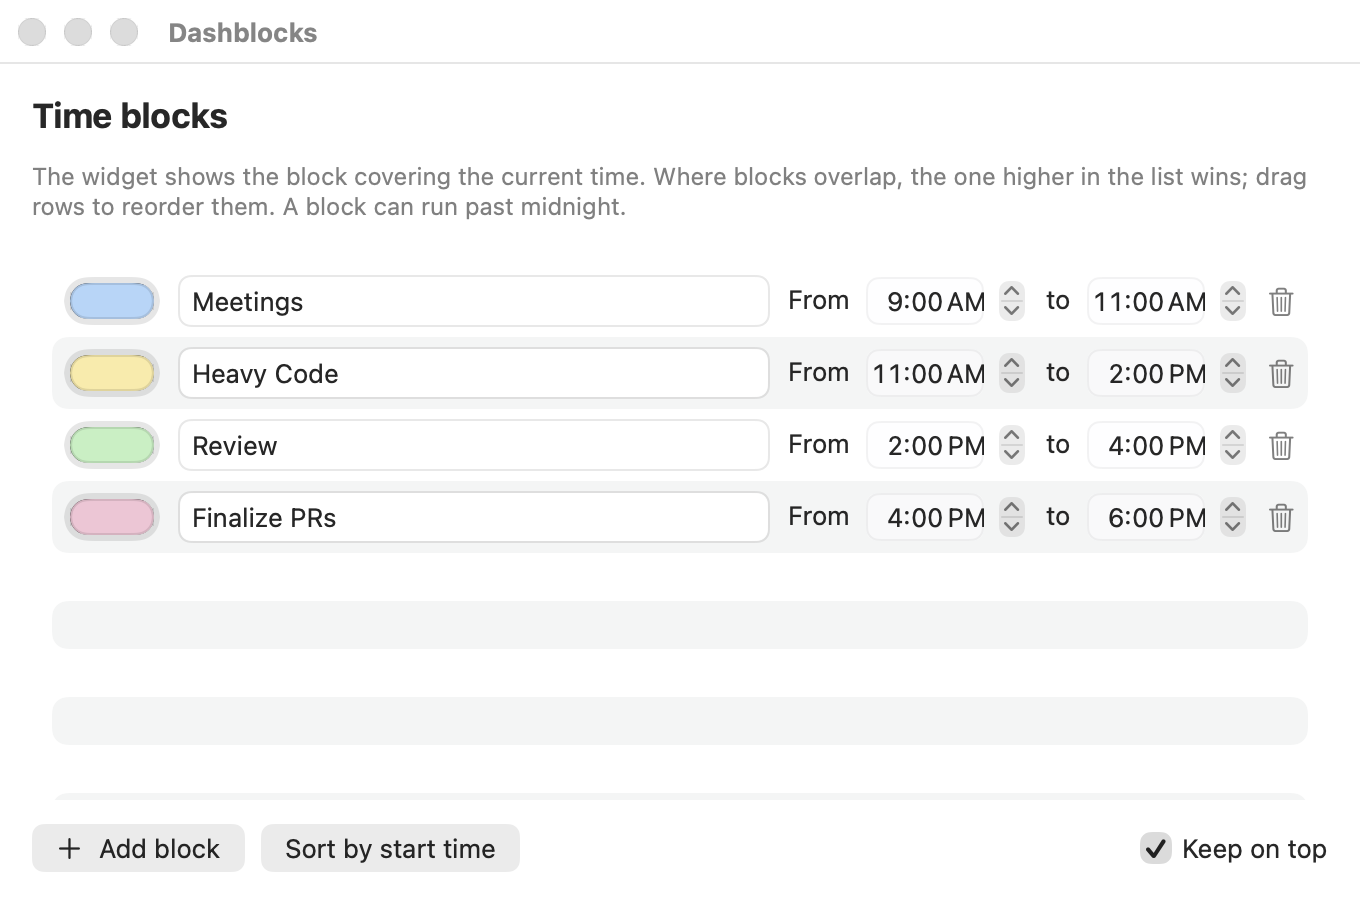
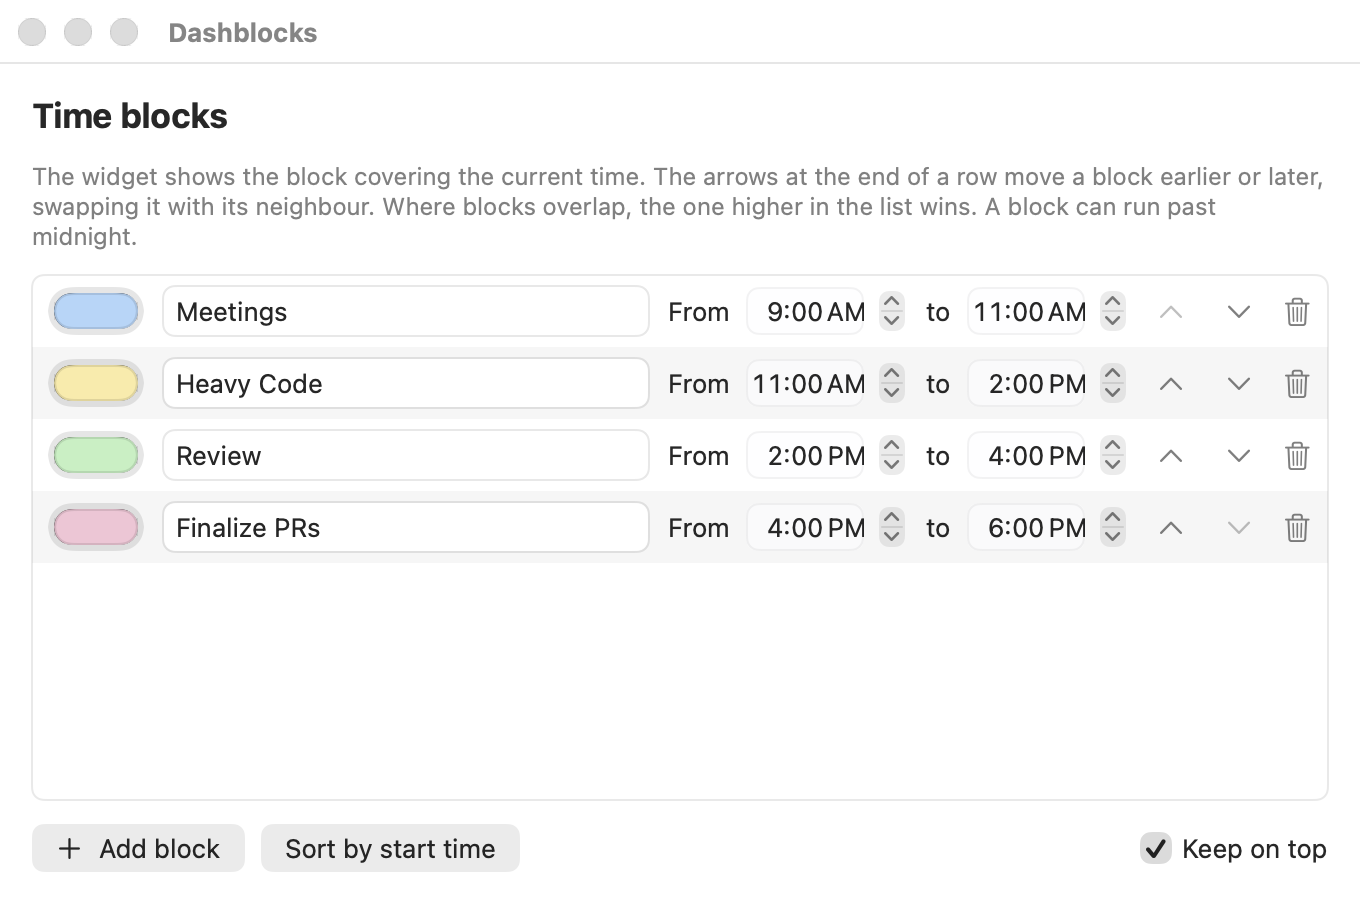
fix: Settings fixes

diff --git a/Dashblocks.swift b/Dashblocks.swift
@@ -74,7 +74,7 @@ final class Store: ObservableObject {
 
     /// The line under the block's name: when it ends, or, between blocks, what is next.
     func caption(at date: Date) -> String {
-        if let block = block(at: date) { return "until \(clockTime(block.end))" }
+        if let block = block(at: date) { return "\(clockTime(block.start)) – \(clockTime(block.end))" }
         if let next = next(after: date) { return "next: \(next.block.name) at \(clockTime(next.block.start))" }
         return "nothing planned"
     }
@@ -266,19 +266,26 @@ struct ConfigView: View {
     var body: some View {
         VStack(alignment: .leading, spacing: 12) {
             Text("Time blocks").font(.title2.bold())
-            Text("The widget shows the block covering the current time. Where blocks overlap, the one higher in the list wins; drag rows to reorder them. A block can run past midnight.")
+            Text("The widget shows the block covering the current time. The arrows at the end of a row move a block earlier or later, swapping it with its neighbour. Where blocks overlap, the one higher in the list wins. A block can run past midnight.")
                 .font(.callout)
                 .foregroundStyle(.secondary)
                 .fixedSize(horizontal: false, vertical: true)
-            List {
-                ForEach(store.blocks) { block in
-                    BlockRow(block: binding(for: block.id)) {
-                        store.blocks.removeAll { $0.id == block.id }
+            // A plain stack, not a List: a List with draggable rows swallows clicks meant for the name fields.
+            ScrollView {
+                VStack(spacing: 0) {
+                    ForEach(Array(store.blocks.enumerated()), id: \.element.id) { index, block in
+                        BlockRow(block: binding(for: block.id),
+                                 moveUp: index > 0 ? { swapInTime(index - 1) } : nil,
+                                 moveDown: index < store.blocks.count - 1 ? { swapInTime(index) } : nil,
+                                 delete: { store.blocks.removeAll { $0.id == block.id } })
+                            .padding(.horizontal, 8)
+                            .background(index.isMultiple(of: 2) ? Color.clear : Color.primary.opacity(0.04))
                     }
                 }
-                .onMove { store.blocks.move(fromOffsets: $0, toOffset: $1) }
             }
-            .listStyle(.inset(alternatesRowBackgrounds: true))
+            .background(Color(nsColor: .controlBackgroundColor))
+            .clipShape(RoundedRectangle(cornerRadius: 6))
+            .overlay(RoundedRectangle(cornerRadius: 6).stroke(Color.primary.opacity(0.1)))
             HStack {
                 Button { add() } label: { Label("Add block", systemImage: "plus") }
                 Button("Sort by start time") { store.blocks.sort { $0.start < $1.start } }
@@ -288,6 +295,21 @@ struct ConfigView: View {
         }
         .padding(16)
         .frame(minWidth: 620, minHeight: 380)
+    }
+
+    /// Swaps block `i` with the one after it, in the list and in the day: the later block takes the earlier
+    /// one's start, and the earlier one follows it, keeping both lengths and the gap between them.
+    func swapInTime(_ i: Int) {
+        var blocks = store.blocks
+        var earlier = blocks[i], later = blocks[i + 1]
+        let length = { (b: Block) in (b.end - b.start + 1440) % 1440 }
+        let gap = (later.start - earlier.end + 1440) % 1440
+        let start = earlier.start
+        (later.start, later.end) = (start, (start + length(later)) % 1440)
+        let next = (later.end + gap) % 1440
+        (earlier.start, earlier.end) = (next, (next + length(earlier)) % 1440)
+        (blocks[i], blocks[i + 1]) = (later, earlier)
+        store.blocks = blocks
     }
 
     /// A binding to the block with `id` that survives the block being deleted.
@@ -309,13 +331,26 @@ struct ConfigView: View {
 
 struct BlockRow: View {
     @Binding var block: Block
+    let moveUp: (() -> Void)?
+    let moveDown: (() -> Void)?
     let delete: () -> Void
+    /// The picker's own colour. Feeding the saved #RRGGBB back into the picker would snap its wheel and
+    /// brightness slider to the rounded sRGB colour on every drag, so only the store gets the rounded one.
+    @State private var color: Color
+
+    init(block: Binding<Block>, moveUp: (() -> Void)?, moveDown: (() -> Void)?, delete: @escaping () -> Void) {
+        _block = block
+        self.moveUp = moveUp
+        self.moveDown = moveDown
+        self.delete = delete
+        _color = State(initialValue: Color(hex: block.wrappedValue.color))
+    }
 
     var body: some View {
         HStack(spacing: 10) {
-            ColorPicker("Colour", selection: Binding(get: { Color(hex: block.color) }, set: { block.color = $0.hex }),
-                        supportsOpacity: false)
+            ColorPicker("Colour", selection: $color, supportsOpacity: false)
                 .labelsHidden()
+                .onChange(of: color) { _, new in block.color = new.hex }
             TextField("Name", text: $block.name)
                 .textFieldStyle(.roundedBorder)
                 .frame(minWidth: 150)
@@ -323,11 +358,19 @@ struct BlockRow: View {
                 .fixedSize()
             DatePicker("to", selection: time(\.end), displayedComponents: .hourAndMinute)
                 .fixedSize()
+            Button { moveUp?() } label: { Image(systemName: "chevron.up").frame(width: 24, height: 24).contentShape(Rectangle()) }
+                .buttonStyle(.borderless)
+                .disabled(moveUp == nil)
+                .help("Move earlier, before the block above")
+            Button { moveDown?() } label: { Image(systemName: "chevron.down").frame(width: 24, height: 24).contentShape(Rectangle()) }
+                .buttonStyle(.borderless)
+                .disabled(moveDown == nil)
+                .help("Move later, after the block below")
             Button(role: .destructive, action: delete) { Image(systemName: "trash") }
                 .buttonStyle(.borderless)
                 .help("Delete this block")
         }
-        .padding(.vertical, 2)
+        .padding(.vertical, 6)
     }
 
     /// A start or end time, as today's date at that time for the picker.
@@ -408,6 +451,13 @@ final class AppDelegate: NSObject, NSApplicationDelegate {
             window.center()
             window.setFrameAutosaveName("DashblocksConfig")
             config = window
+            // Clicking anywhere but a field ends the edit, as it does elsewhere on the Mac.
+            NSEvent.addLocalMonitorForEvents(matching: .leftMouseDown) { [weak window] event in
+                guard let window, event.window === window,
+                      let hit = window.contentView?.hitTest(event.locationInWindow) else { return event }
+                if !(hit is NSText || hit is NSTextField || hit is NSDatePicker) { window.makeFirstResponder(nil) }
+                return event
+            }
         }
         NSApp.activate(ignoringOtherApps: true)
         config?.makeKeyAndOrderFront(nil)

diff --git a/README.md b/README.md
@@ -3,7 +3,7 @@
 A small block that floats on your Mac's screen and shows what you planned for
 this part of the day. Split your day into colour-coded time blocks — say
 Meetings in the morning, Heavy Code around midday, Review in the afternoon — and
-Dashblocks shows the block you are in now, with its name and when it ends.
+Dashblocks shows the block you are in now, with its name and the times it runs.
 
 ![The Dashblocks widget during a Heavy Code block](docs/widget.png)
 
@@ -34,7 +34,9 @@ Each block has a colour, a name, and the times it runs from and to.
 
 - **Add block** adds an hour-long block after your last one.
 - The trash button deletes a block.
-- Drag rows to reorder them, or click **Sort by start time**.
+- The up arrow moves a block earlier in the day and the down arrow later: it
+  swaps places with its neighbour, and both keep their lengths. **Sort by start
+  time** puts the list in time order.
 - A block can run past midnight: set it from 10:00 PM to 1:00 AM, say.
 - Where blocks overlap, the one higher in the list wins.
 
